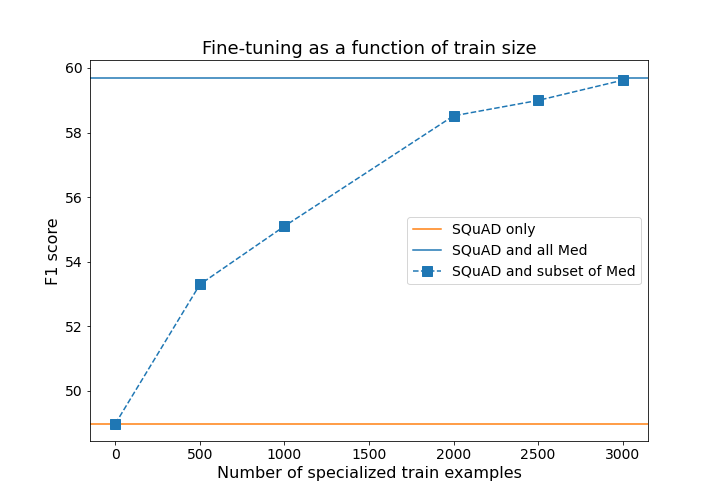
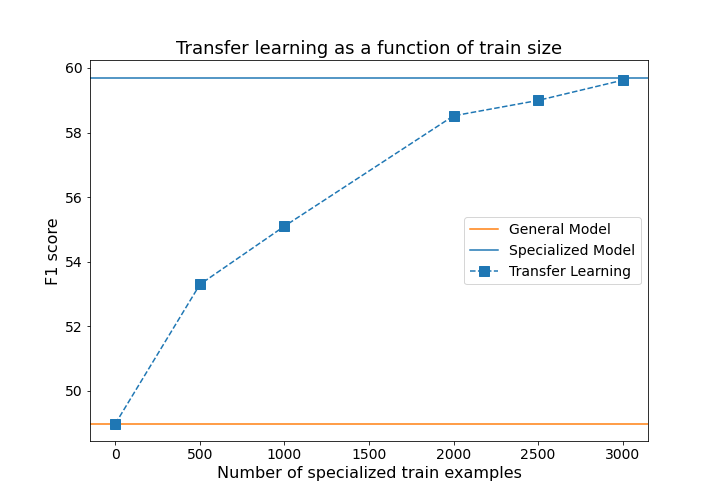
update figures; make posts live for inclusion to CFFL newsletter

Changed region(s): [[0.55, 0.4464, 0.8861, 0.5655], [0.2444, 0.0595, 0.7944, 0.119]]

diff --git a/_posts/2020-07-20-QA-for-Specialized-Data.md b/_posts/2020-07-20-QA-for-Specialized-Data.md
@@ -1,13 +1,10 @@
 ---
-title: "How to Apply a QA Model to _Your_ Data"
+title: "How to Apply a Transformer QA Model to Your Data"
 description: A look at how transfer learning can boost performance in specialized domains.
 toc: true
 layout: post
 comments: true
-hide: true
-permalink: /reader_hidden/
-search_exclude: false
-categories: [domain adaptation, transfer learning, specialized datasets, QA]
+categories: [domain adaptation, transfer learning, specialized datasets, QA, medical QA]
 ---
 
 If you’ve been following along in our question answering journey, you now understand the basic building blocks that form the pipeline of modern Information Retrieval-based Question Answering (IRQA) systems, and how such systems are trained and evaluated against the SQuAD2.0 dataset. However, implementing an IRQA system in the real-world is a bit more nuanced. One of our biggest questions was how well would a Reader trained on SQuAD2.0 perform on a real-world corpus? And what if that corpus were highly specialized, perhaps a collection of legal contracts, financial reports, or technical manuals? In this post we perform experiments designed to highlight how to adapt Transformer models to specialized domains and provide guidelines for practical applications. 
